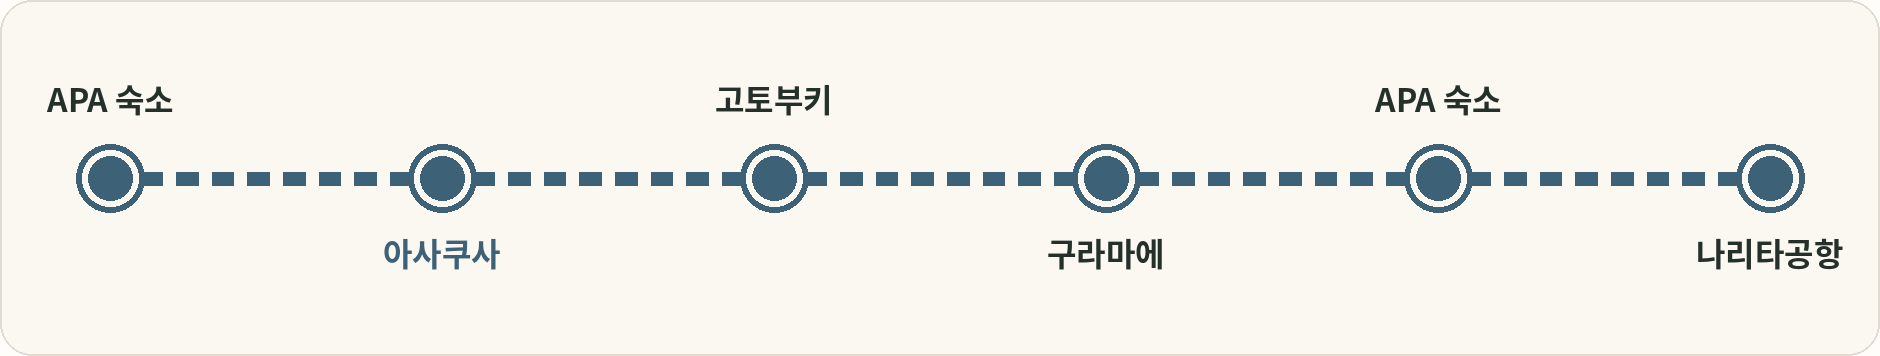
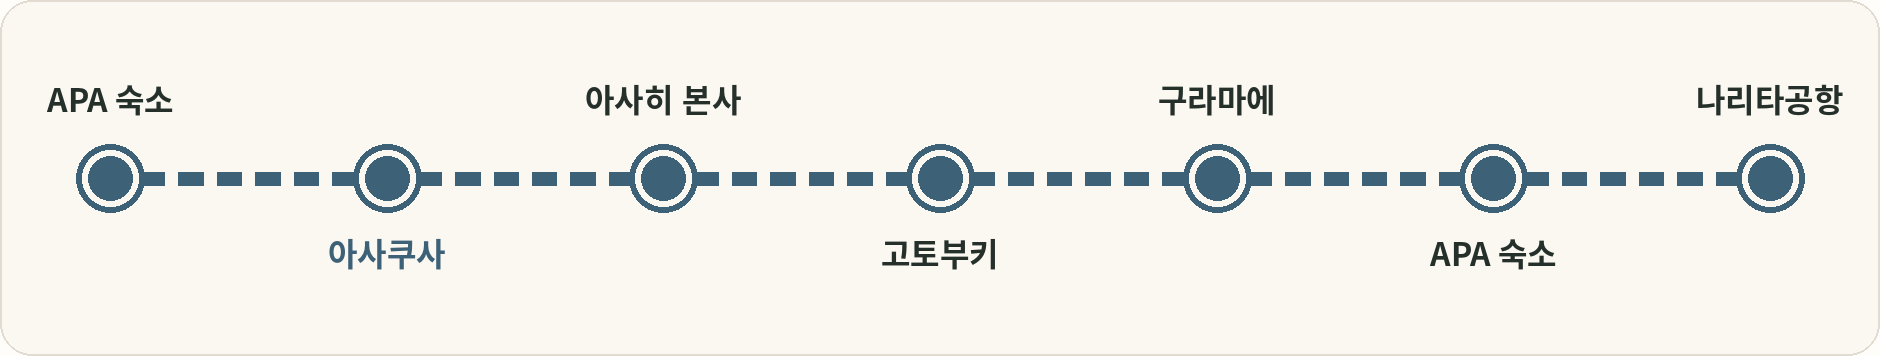
Schedule Asahi headquarters and clarify the Unagi reservation

diff --git a/index.html b/index.html
@@ -32,7 +32,7 @@
 <section id="shops" class="section"><div class="sectionhead"><div><span class="sectionindex">05 / Collected in Tokyo</span><h2>쇼핑 · 카페 · 맛집</h2></div><p>전당포·중고 명품 쇼핑은 11/28 긴자 일정에 포함했어요.<br>♡를 누르면 이 브라우저에 저장돼요.</p></div><div class="shoptabs" id="shopfilters"></div><div class="shopgrid" id="shopsgrid"></div><div class="callout">중고 상품의 재고는 매일 달라질 수 있어요. 같은 모델도 상태·크기·연식·수선·부속품을 함께 비교하세요. 매장 임시휴무는 출발 전 공식 채널 확인. ELEPHANT는 일요일 일반 영업, proto는 화요일 12시 개점. 사진 속 스키야키 링크는 우나후지와 같아 식당명이 확인되지 않았어요. 우나후지 도쿄 오페라시티점은 11/29(일) 17:00~19:00 예약 확정이에요.</div></section>
 <section id="taxrefund" class="section"><div class="sectionhead"><div><span class="sectionindex">Shopping guide / 2026.11.25 확인</span><h2>매장별 면세 & 출국 환급</h2></div><p>11/28~12/1 여행에는 새 리펀드 방식 적용.<br>면세 대응 확인은 환급액·수수료까지 확정됐다는 뜻은 아니에요.</p></div>
 <div class="callout"><strong>세금 포함 결제 → 매장 면세 등록 → 짐 맡기기 전 세관 확인 → 매장·환급업체 환급</strong><p>모든 가게가 참여하는 제도는 아니에요. 영수증만 공항으로 가져가면 되는 것도 아니므로 구매할 때 반드시 면세 처리를 요청하세요. 여행 예산은 환급 전 지출액 기준으로 잡고, 환급액은 확정 전 미리 차감하지 않아요.</p></div>
-<details open class="taxdetails"><summary>방문 매장별 면세 여부</summary><p>‘확인 필요’는 면세 불가라는 뜻이 아닙니다. 스투시 다른 지점·Spiral 다른 지점의 면세 여부를 이번 방문 지점에 그대로 적용하지 않았어요. 다치바나는 일정 제외 매장으로 참고만 남겨 두었어요.</p><div class="tablewrap"><table class="taxtable"><thead><tr><th>방문 매장</th><th>구분</th><th>조건·확인할 내용</th></tr></thead><tbody><tr><th scope="row">BRAND OFF 긴자 본점</th><td><b>면세 대응 확인</b></td><td>긴자 본점 공식 면세 표시. 환급 수단·수수료·지급 시점은 결제 전 확인. <a target="_blank" rel="noopener noreferrer" href="https://www.brandoff.co.jp/shop_list/shop.php?shop=010_ginza_head">확인 출처</a></td></tr><tr><th scope="row">KOMEHYO GINZA</th><td><b>면세 대응 확인</b></td><td>긴자점 공식 Tax Free 표시. 중고 상품도 구매 조건을 충족하면 신청 가능. <a target="_blank" rel="noopener noreferrer" href="https://komehyo.jp/kaitori/shop/ginza">확인 출처</a></td></tr><tr><th scope="row">다이코쿠야 긴자점</th><td><b>확인 필요</b></td><td>체인 공식 매장 면세 안내는 있으나 오래된 금액 기준이 남아 있어 긴자점의 새 제도 대응을 재확인. <a target="_blank" rel="noopener noreferrer" href="https://corporate.daikokuya.com/index_en.html">확인 출처</a></td></tr><tr><th scope="row">WATCHNIAN 긴자 5초메</th><td><b>면세 대응 확인</b></td><td>공식 FAQ상 매장 구매 면세 지원, 온라인 제외. 해당 상품과 환급 절차 확인. <a target="_blank" rel="noopener noreferrer" href="https://watchnian.com/shop/pages/faq.aspx">확인 출처</a></td></tr><tr><th scope="row">Spiral Market 아오야마</th><td><b>확인 필요</b></td><td>방문 지점의 관광객 면세·새 환급 방식 안내를 공식 공개 정보에서 확인하지 못했어요. 불가 확정이 아니며 결제 전에 물어보세요. <a target="_blank" rel="noopener noreferrer" href="https://www.spiral.co.jp/shoplist/spiral_market">확인 출처</a></td></tr><tr><th scope="row">ELEPHANT</th><td><b>확인 필요</b></td><td>방문 지점의 관광객 면세·새 환급 방식 안내를 공식 공개 정보에서 확인하지 못했어요. 불가 확정이 아니며 결제 전에 물어보세요. <a target="_blank" rel="noopener noreferrer" href="https://elephant-life.com/pages/shop-information">확인 출처</a></td></tr><tr><th scope="row">d47 design travel store</th><td><b>확인 필요</b></td><td>방문 지점의 관광객 면세·새 환급 방식 안내를 공식 공개 정보에서 확인하지 못했어요. 불가 확정이 아니며 결제 전에 물어보세요. <a target="_blank" rel="noopener noreferrer" href="https://www.d-department.com/ext/shop/d47.html">확인 출처</a></td></tr><tr><th scope="row">道具屋 nobori</th><td><b>확인 필요</b></td><td>방문 지점의 관광객 면세·새 환급 방식 안내를 공식 공개 정보에서 확인하지 못했어요. 불가 확정이 아니며 결제 전에 물어보세요. <a target="_blank" rel="noopener noreferrer" href="https://fromafar.stores.jp/about">확인 출처</a></td></tr><tr><th scope="row">proto 器とタカラモノ</th><td><b>확인 필요</b></td><td>방문 지점의 관광객 면세·새 환급 방식 안내를 공식 공개 정보에서 확인하지 못했어요. 불가 확정이 아니며 결제 전에 물어보세요. <a target="_blank" rel="noopener noreferrer" href="https://proto-art.stores.jp/about">확인 출처</a></td></tr><tr><th scope="row">GLITCH COFFEE GINZA</th><td><b>음료 대상 아님</b></td><td>매장에서 마시는 커피는 대상 제외. 반출할 원두·굿즈 판매의 면세 대응은 별도 확인. <a target="_blank" rel="noopener noreferrer" href="https://www.customs.go.jp/kaigairyoko/taxrefund.htm">확인 출처</a></td></tr><tr><th scope="row">BEAMS GINZA</th><td><b>면세 대응 확인</b></td><td>긴자점 공식 면세 표시. 환급 수단·수수료는 매장 안내 확인. <a target="_blank" rel="noopener noreferrer" href="https://www.beams.co.jp/shop/gnz/">확인 출처</a></td></tr><tr><th scope="row">미야코시야 커피 긴자점</th><td><b>음료 대상 아님</b></td><td>매장에서 마시는 커피는 대상 제외. 반출할 원두·상품은 매장에 따로 확인. <a target="_blank" rel="noopener noreferrer" href="https://www.customs.go.jp/kaigairyoko/taxrefund.htm">확인 출처</a></td></tr><tr><th scope="row">파블로프 · GINZA SIX</th><td><b>조건부·확인 필요</b></td><td>SIX 1층에 면세 카운터가 있지만 파블로프 참여·합산·수수료는 확인 필요. 일본에서 먹을 과자는 대상 제외. <a target="_blank" rel="noopener noreferrer" href="https://ginza6.tokyo/services/">확인 출처</a></td></tr><tr><th scope="row">긴자 다치바나</th><td><b>확인 필요</b></td><td>방문 지점의 관광객 면세·새 환급 방식 안내를 공식 공개 정보에서 확인하지 못했어요. 불가 확정이 아니며 결제 전에 물어보세요. <a target="_blank" rel="noopener noreferrer" href="https://ginza.kokosil.net/ja/place/00001c0000000000000200000016b86a">확인 출처</a></td></tr><tr><th scope="row">야마야 긴자</th><td><b>확인 필요</b></td><td>과거 공식 면세 대상 지점에 포함. 2026년 11월 이후 해당 지점 환급 방식·운영 여부 재확인. <a target="_blank" rel="noopener noreferrer" href="https://www.yamaya.jp/pages/cp/press/data/file194.pdf">확인 출처</a></td></tr><tr><th scope="row">리커 마운틴 긴자 777</th><td><b>면세 대응 확인</b></td><td>해당 지점 공식 면세점 표시. 위스키는 일본에서 마시지 않고 직접 반출. <a target="_blank" rel="noopener noreferrer" href="https://www.likaman.co.jp/shop/tokyo/chuo-ku/8466.html">확인 출처</a></td></tr><tr><th scope="row">우나후지 도쿄 오페라시티점</th><td><b>대상 아님</b></td><td>예약한 식사·음료는 일본에서 소비하므로 관광객 물품 면세 대상이 아니에요. <a target="_blank" rel="noopener noreferrer" href="https://www.customs.go.jp/kaigairyoko/taxrefund.htm">확인 출처</a></td></tr><tr><th scope="row">아사히 스카이룸</th><td><b>대상 아님</b></td><td>현장에서 마시는 맥주·식사는 물품 면세 대상이 아니에요. <a target="_blank" rel="noopener noreferrer" href="https://www.customs.go.jp/kaigairyoko/taxrefund.htm">확인 출처</a></td></tr><tr><th scope="row">Stüssy 하라주쿠</th><td><b>확인 필요</b></td><td>방문 지점의 관광객 면세·새 환급 방식 안내를 공식 공개 정보에서 확인하지 못했어요. 불가 확정이 아니며 결제 전에 물어보세요. <a target="_blank" rel="noopener noreferrer" href="https://jp.stussy.com/blogs/chapters/stussy-harajuku">확인 출처</a></td></tr><tr><th scope="row">몽벨 도쿄 교바시점</th><td><b>면세 대응 확인</b></td><td>몽벨 공식 매장 안내에 면세 가능으로 표시돼요. 결제 전에 면세 등록과 환급 방법을 확인하세요. <a target="_blank" rel="noopener noreferrer" href="https://store.montbell.jp/search/shopinfo/?shop_no=678502">확인 출처</a></td></tr><tr><th scope="row">디즈니랜드 파크 내 굿즈</th><td><b>면세 불가</b></td><td>공식 FAQ에서 파크 내 판매 상품의 면세 불가 안내. <a target="_blank" rel="noopener noreferrer" href="https://faq-en.tokyodisneyresort.jp/answer/680ba054d7820362f46c7d8e/">공식 FAQ</a></td></tr></tbody></table></div></details>
+<details open class="taxdetails"><summary>방문 매장별 면세 여부</summary><p>‘확인 필요’는 면세 불가라는 뜻이 아닙니다. 스투시 다른 지점·Spiral 다른 지점의 면세 여부를 이번 방문 지점에 그대로 적용하지 않았어요. 다치바나는 일정 제외 매장으로 참고만 남겨 두었어요.</p><div class="tablewrap"><table class="taxtable"><thead><tr><th>방문 매장</th><th>구분</th><th>조건·확인할 내용</th></tr></thead><tbody><tr><th scope="row">BRAND OFF 긴자 본점</th><td><b>면세 대응 확인</b></td><td>긴자 본점 공식 면세 표시. 환급 수단·수수료·지급 시점은 결제 전 확인. <a target="_blank" rel="noopener noreferrer" href="https://www.brandoff.co.jp/shop_list/shop.php?shop=010_ginza_head">확인 출처</a></td></tr><tr><th scope="row">KOMEHYO GINZA</th><td><b>면세 대응 확인</b></td><td>긴자점 공식 Tax Free 표시. 중고 상품도 구매 조건을 충족하면 신청 가능. <a target="_blank" rel="noopener noreferrer" href="https://komehyo.jp/kaitori/shop/ginza">확인 출처</a></td></tr><tr><th scope="row">다이코쿠야 긴자점</th><td><b>확인 필요</b></td><td>체인 공식 매장 면세 안내는 있으나 오래된 금액 기준이 남아 있어 긴자점의 새 제도 대응을 재확인. <a target="_blank" rel="noopener noreferrer" href="https://corporate.daikokuya.com/index_en.html">확인 출처</a></td></tr><tr><th scope="row">WATCHNIAN 긴자 5초메</th><td><b>면세 대응 확인</b></td><td>공식 FAQ상 매장 구매 면세 지원, 온라인 제외. 해당 상품과 환급 절차 확인. <a target="_blank" rel="noopener noreferrer" href="https://watchnian.com/shop/pages/faq.aspx">확인 출처</a></td></tr><tr><th scope="row">Spiral Market 아오야마</th><td><b>확인 필요</b></td><td>방문 지점의 관광객 면세·새 환급 방식 안내를 공식 공개 정보에서 확인하지 못했어요. 불가 확정이 아니며 결제 전에 물어보세요. <a target="_blank" rel="noopener noreferrer" href="https://www.spiral.co.jp/shoplist/spiral_market">확인 출처</a></td></tr><tr><th scope="row">ELEPHANT</th><td><b>확인 필요</b></td><td>방문 지점의 관광객 면세·새 환급 방식 안내를 공식 공개 정보에서 확인하지 못했어요. 불가 확정이 아니며 결제 전에 물어보세요. <a target="_blank" rel="noopener noreferrer" href="https://elephant-life.com/pages/shop-information">확인 출처</a></td></tr><tr><th scope="row">d47 design travel store</th><td><b>확인 필요</b></td><td>방문 지점의 관광객 면세·새 환급 방식 안내를 공식 공개 정보에서 확인하지 못했어요. 불가 확정이 아니며 결제 전에 물어보세요. <a target="_blank" rel="noopener noreferrer" href="https://www.d-department.com/ext/shop/d47.html">확인 출처</a></td></tr><tr><th scope="row">道具屋 nobori</th><td><b>확인 필요</b></td><td>방문 지점의 관광객 면세·새 환급 방식 안내를 공식 공개 정보에서 확인하지 못했어요. 불가 확정이 아니며 결제 전에 물어보세요. <a target="_blank" rel="noopener noreferrer" href="https://fromafar.stores.jp/about">확인 출처</a></td></tr><tr><th scope="row">proto 器とタカラモノ</th><td><b>확인 필요</b></td><td>방문 지점의 관광객 면세·새 환급 방식 안내를 공식 공개 정보에서 확인하지 못했어요. 불가 확정이 아니며 결제 전에 물어보세요. <a target="_blank" rel="noopener noreferrer" href="https://proto-art.stores.jp/about">확인 출처</a></td></tr><tr><th scope="row">GLITCH COFFEE GINZA</th><td><b>음료 대상 아님</b></td><td>매장에서 마시는 커피는 대상 제외. 반출할 원두·굿즈 판매의 면세 대응은 별도 확인. <a target="_blank" rel="noopener noreferrer" href="https://www.customs.go.jp/kaigairyoko/taxrefund.htm">확인 출처</a></td></tr><tr><th scope="row">BEAMS GINZA</th><td><b>면세 대응 확인</b></td><td>긴자점 공식 면세 표시. 환급 수단·수수료는 매장 안내 확인. <a target="_blank" rel="noopener noreferrer" href="https://www.beams.co.jp/shop/gnz/">확인 출처</a></td></tr><tr><th scope="row">미야코시야 커피 긴자점</th><td><b>음료 대상 아님</b></td><td>매장에서 마시는 커피는 대상 제외. 반출할 원두·상품은 매장에 따로 확인. <a target="_blank" rel="noopener noreferrer" href="https://www.customs.go.jp/kaigairyoko/taxrefund.htm">확인 출처</a></td></tr><tr><th scope="row">파블로프 · GINZA SIX</th><td><b>조건부·확인 필요</b></td><td>SIX 1층에 면세 카운터가 있지만 파블로프 참여·합산·수수료는 확인 필요. 일본에서 먹을 과자는 대상 제외. <a target="_blank" rel="noopener noreferrer" href="https://ginza6.tokyo/services/">확인 출처</a></td></tr><tr><th scope="row">긴자 다치바나</th><td><b>확인 필요</b></td><td>방문 지점의 관광객 면세·새 환급 방식 안내를 공식 공개 정보에서 확인하지 못했어요. 불가 확정이 아니며 결제 전에 물어보세요. <a target="_blank" rel="noopener noreferrer" href="https://ginza.kokosil.net/ja/place/00001c0000000000000200000016b86a">확인 출처</a></td></tr><tr><th scope="row">야마야 긴자</th><td><b>확인 필요</b></td><td>과거 공식 면세 대상 지점에 포함. 2026년 11월 이후 해당 지점 환급 방식·운영 여부 재확인. <a target="_blank" rel="noopener noreferrer" href="https://www.yamaya.jp/pages/cp/press/data/file194.pdf">확인 출처</a></td></tr><tr><th scope="row">리커 마운틴 긴자 777</th><td><b>면세 대응 확인</b></td><td>해당 지점 공식 면세점 표시. 위스키는 일본에서 마시지 않고 직접 반출. <a target="_blank" rel="noopener noreferrer" href="https://www.likaman.co.jp/shop/tokyo/chuo-ku/8466.html">확인 출처</a></td></tr><tr><th scope="row">우나후지 도쿄 오페라시티점</th><td><b>대상 아님</b></td><td>예약한 식사·음료는 일본에서 소비하므로 관광객 물품 면세 대상이 아니에요. <a target="_blank" rel="noopener noreferrer" href="https://www.customs.go.jp/kaigairyoko/taxrefund.htm">확인 출처</a></td></tr><tr><th scope="row">아사히맥주 본사 · 아사히 스카이룸</th><td><b>대상 아님</b></td><td>현장에서 마시는 맥주·식사는 물품 면세 대상이 아니에요. <a target="_blank" rel="noopener noreferrer" href="https://www.customs.go.jp/kaigairyoko/taxrefund.htm">확인 출처</a></td></tr><tr><th scope="row">Stüssy 하라주쿠</th><td><b>확인 필요</b></td><td>방문 지점의 관광객 면세·새 환급 방식 안내를 공식 공개 정보에서 확인하지 못했어요. 불가 확정이 아니며 결제 전에 물어보세요. <a target="_blank" rel="noopener noreferrer" href="https://jp.stussy.com/blogs/chapters/stussy-harajuku">확인 출처</a></td></tr><tr><th scope="row">몽벨 도쿄 교바시점</th><td><b>면세 대응 확인</b></td><td>몽벨 공식 매장 안내에 면세 가능으로 표시돼요. 결제 전에 면세 등록과 환급 방법을 확인하세요. <a target="_blank" rel="noopener noreferrer" href="https://store.montbell.jp/search/shopinfo/?shop_no=678502">확인 출처</a></td></tr><tr><th scope="row">디즈니랜드 파크 내 굿즈</th><td><b>면세 불가</b></td><td>공식 FAQ에서 파크 내 판매 상품의 면세 불가 안내. <a target="_blank" rel="noopener noreferrer" href="https://faq-en.tokyodisneyresort.jp/answer/680ba054d7820362f46c7d8e/">공식 FAQ</a></td></tr></tbody></table></div></details>
 <div class="taxsteps">
 <article class="shopcard"><h3>1. 매장에서 결제하기 전</h3><p>일본 비거주 단기 관광객 등 대상 자격 확인을 위해 여권 원본을 지참해요. 같은 매장·같은 날 세전 5,000엔 이상이 기본 조건. 서로 다른 가게의 영수증은 임의 합산하지 말고, 쇼핑몰 합산은 카운터에 확인하세요.</p><p>직원에게 면세 환급을 요청하고 여권 정보를 등록해요. 환급 수단·수수료·예상 소요 기간·추가 신청 링크를 확인한 뒤 세금 포함 가격으로 결제하세요. 영수증과 신청 안내는 보관.</p><p><a href="https://www.gotokyo.org/en/plan/tax-free-shopping/index.html" target="_blank" rel="noopener noreferrer">대상 자격·구매 절차</a></p></article>
 <article class="shopcard"><h3>2. 쇼핑 중 보관</h3><p>소모품 특수 밀봉 의무가 없어져도 일본에서 먹거나 마신 물건은 환급받을 수 없어요. 여행 중 먹을 디저트와 한국으로 가져갈 선물은 계산을 나누는 편이 좋아요.</p><p>한 면세 거래의 물품 중 하나라도 반출 확인이 안 되면 그 거래 전체가 환급되지 않을 수 있어요. 일부를 소비했다면 단말로 그대로 신청하지 말고 세관 직원에게 알리세요. 환급용 위스키는 마시지 말고 보관해요.</p><p><a href="https://www.mlit.go.jp/kankocho/tax-free/page01_000001_00028.html" target="_blank" rel="noopener noreferrer">거래별 반출 확인 주의사항</a></p></article>
@@ -45,5 +45,5 @@
 <section id="sources" class="section"><div class="sectionhead"><div><span class="sectionindex">Source notes / Updated 2026.11.06</span><h2>가격의 기준과 공식 안내</h2></div><p>운임은 현재 공지·경로 검색의 참고금액.<br>출발일의 시간표·예약 화면에서 최종 확인하세요.</p></div><div class="sources" id="sourceslist"></div></section>
 </main><footer class="wrap"><span class="wordmark">our days<em>.</em></span><span>첫 번째 기념일을 위한 도쿄 노트 · 2026<br>계획용 일정 / 예약·결제 기능 없음</span><a href="#">맨 위로 ↑</a></footer>
 <div class="toast" id="toast" role="status" hidden></div>
-<script src="data.js?v=montbell-1"></script><script src="app.js?v=montbell-1"></script>
+<script src="data.js?v=asahi-1"></script><script src="app.js?v=asahi-1"></script>
 </body></html>

diff --git a/app.js b/app.js
@@ -46,10 +46,10 @@
   "나리타 제3터미널 → 공항철도로 히가시니혼바시 APA → 아사쿠사선으로 히가시긴자 → 도보로 긴자 쇼핑 → 교바시 몽벨 → 마루노우치 → 도쿄역에서 소부쾌속선으로 바쿠로초·APA.",
   "APA → 아사쿠사선·긴자선으로 가이엔마에 → 도보로 오모테산도와 하라주쿠 스투시 → 시부야역 서쪽 → 渋64 버스로 도쿄 오페라시티, 17시 우나후지 → 하쓰다이에서 게이오 신선·신주쿠선으로 바쿠로요코야마·APA. 요요기공원은 여유가 있을 때 들러요.",
   "바쿠로초 → 소부쾌속선으로 도쿄역 → 게이요선으로 마이하마 → 도보로 디즈니랜드. 17시 전후 퇴장 후 마이하마·도쿄역을 거쳐 APA로. 긴자가 선택이면 도쿄역에서 걸어가고 히가시긴자에서 아사쿠사선으로 복귀.",
-  "APA → 아사쿠사선으로 아사쿠사 → 도보로 고토부키의 nobori와 구라마에의 proto → 아사쿠사선으로 APA에 돌아와 짐 찾기 → 공항철도로 나리타 제3터미널. 16:30 도착 목표."
+  "APA → 아사쿠사선으로 아사쿠사 → 도보로 아사히맥주 본사 스카이룸 → 고토부키의 nobori → 구라마에의 proto → 아사쿠사선으로 APA에 돌아와 짐 찾기 → 공항철도로 나리타 제3터미널. 16:30 도착 목표."
 ];
  function routeMap(d) {
-  const file = `route-maps/day-${String(d.id + 1).padStart(2, '0')}.png?v=${d.id === 0 ? '10' : '9'}`;
+  const file = `route-maps/day-${String(d.id + 1).padStart(2, '0')}.png?v=${d.id === 0 ? '10' : d.id === 3 ? '11' : '9'}`;
   return `<figure class="route-map">
    <img src="${file}" width="1880" height="356" alt="${esc(routeMapDescriptions[d.id])}" loading="lazy" decoding="async">
    <figcaption><span>이동 순서도 · 축척 없음</span><a href="${file}" target="_blank" rel="noopener noreferrer" aria-label="${d.date} 이동 지도 크게 보기">지도 크게 보기</a></figcaption>
@@ -73,8 +73,8 @@
  };
  function routeLink(title){
  const points={'도쿄 오페라시티':'Tokyo Opera City','하쓰다이':'Hatsudai Station','나리타공항 제2·3터미널역':'Narita Airport Terminal 2 3 Station','공항 제2·3터미널역':'Narita Airport Terminal 2 3 Station','신바시':'Shimbashi Station Tokyo','신바시역':'Shimbashi Station Tokyo','호텔':T.hotel,'히가시니혼바시':'Higashi-nihombashi Station','바쿠로초':'Bakurocho Station','바쿠로요코야마':'Bakuro-yokoyama Station','히가시긴자':'Higashi-ginza Station','마루노우치':'Marunouchi Naka-dori Tokyo','도쿄역':'Tokyo Station Japan','도쿄':'Tokyo Station Japan','가이엔마에':'Gaiemmae Station Tokyo','가이엔':'Meiji Jingu Gaien Ginkgo Avenue','시부야':'Shibuya Station Tokyo','롯폰기':'Roppongi Station Tokyo','시오도메':'Shiodome Station Tokyo','마이하마':'Maihama Station Japan','마이하마역':'Maihama Station Japan','디즈니랜드':'Tokyo Disneyland','아사쿠사':'Sensoji Temple Tokyo','구라마에':'Kuramae Asakusa Line Station Tokyo','nobori':'Douguya nobori 3-7-1 Kotobuki','proto':'proto 4-20-12 Kuramae'};
- const parts=title.split('→').map(v=>v.trim());const walk=['도쿄역 → 긴자 → 히가시긴자','도쿄역 → 황궁 외원 → 히가시긴자','히가시니혼바시 → 호텔','히가시긴자 → 긴자 매장 → 교바시 몽벨 → 마루노우치','가이엔 → 오모테산도 → 시부야','마이하마역 → 디즈니랜드','아사쿠사 → nobori → proto'].includes(title);
- const waypoints=title.includes('교바시 몽벨')?'BRAND OFF Ginza Main Store|Mont-bell Tokyo Kyobashi Tokyo Square Garden':title.includes('황궁 외원')?'Nijubashi Bridge Tokyo|GINZA SIX':'';
+ const parts=title.split('→').map(v=>v.trim());const walk=['도쿄역 → 긴자 → 히가시긴자','도쿄역 → 황궁 외원 → 히가시긴자','히가시니혼바시 → 호텔','히가시긴자 → 긴자 매장 → 교바시 몽벨 → 마루노우치','가이엔 → 오모테산도 → 시부야','마이하마역 → 디즈니랜드','아사쿠사 → 아사히 본사 → nobori → proto'].includes(title);
+ const waypoints=title.includes('아사히 본사')?'Asahi Sky Room Asakusa|Douguya nobori 3-7-1 Kotobuki':title.includes('교바시 몽벨')?'BRAND OFF Ginza Main Store|Mont-bell Tokyo Kyobashi Tokyo Square Garden':title.includes('황궁 외원')?'Nijubashi Bridge Tokyo|GINZA SIX':'';
  return 'https://www.google.com/maps/dir/?api=1&origin='+encodeURIComponent(points[parts[0]]||parts[0]+' Tokyo Japan')+'&destination='+encodeURIComponent(points[parts[parts.length-1]]||parts[parts.length-1]+' Tokyo Japan')+(waypoints?'&waypoints='+encodeURIComponent(waypoints):'')+'&travelmode='+(walk?'walking':'transit');
  }
  function renderRoutes(){

diff --git a/data.js b/data.js
@@ -161,7 +161,7 @@ window.TRIP = {
     ],
     [
      "17:00–19:00",
-     "예약 확정 · 숯불구이 우나후지",
+     "예약 확정 · 우나기(장어) 우나후지",
      "11월 29일(일) 17:00~19:00 예약 내역 반영. 도쿄 오페라시티점 53층에서 기념일 저녁. 창가 좌석 여부는 예약 이미지에 표시되지 않았어요. 식사·음료 예산은 두 사람 20,000엔이며 실제 결제액은 별도예요.",
      "Sumiyaki Unafuji Tokyo Opera City"
     ],
@@ -336,9 +336,15 @@ window.TRIP = {
      "Sumida Park Asakusa"
     ],
     [
-     "11:00–11:45",
+     "10:30–11:00",
+     "아사히맥주 본사 · 아사히 스카이룸",
+     "센소지에서 스미다강 건너 아사히 그룹 본사 22층으로. 아사히 흑생(黒生) 한 잔과 전망. 공식 영업시간 10:00–22:00. 줄이 길면 11:00쯤 이동해요.",
+     "Asahi Sky Room Asakusa"
+    ],
+    [
+     "11:20–11:45",
      "道具屋 nobori",
-     "생활 도구·그릇·유리잔. 아사쿠사에서 도보로 내려오기. 맥주를 더 원하면 이 시간에 아사히 본사 22층 스카이룸 한 곳으로 교체. 11:40 전후 출발해 proto로 이동해요.",
+     "아사히 본사에서 아즈마바시를 건너 고토부키로 도보 이동. 생활 도구·그릇·유리잔을 보고 11:45쯤 proto로 출발해요.",
      "Douguya nobori 3-7-1 Kotobuki"
     ],
     [
@@ -382,12 +388,12 @@ window.TRIP = {
      "아사쿠사 정차편 선택."
     ],
     [
-     "아사쿠사 → nobori → proto",
+     "아사쿠사 → 아사히 본사 → nobori → proto",
      "도보",
      "각 구간 약 10~20분",
      "0",
      0,
-     "nobori 11시 / proto 평일 12시 개점."
+     "스미다강을 건너 아사히 본사에 들른 뒤 고토부키·구라마에로 이동. nobori 11시 / proto 평일 12시 개점."
     ],
     [
      "구라마에 → 히가시니혼바시",
@@ -648,11 +654,11 @@ window.TRIP = {
    }
   ],
   [
-   "아사히 스카이룸",
+   "아사히맥주 본사 · 아사히 스카이룸",
    "맛집",
-   "사진의 아사히 본사 추천을 반영한 22층 맥주 후보. 귀국일에는 오전 그릇 가게 한 곳과 교체하고, 대기가 길면 생략해요.",
-   "스미다구 아즈마바시 1-23-1 · 22층",
-   "12/1 선택",
+   "12/1 오전에 들르는 아사히 그룹 본사 22층 전망 라운지. 아사히 생맥주 흑생(黒生) 판매는 공개 메뉴에서 확인.",
+   "스미다구 아즈마바시 1-23-1 · 22층 · 10:00–22:00",
+   "12/1 · 10:30",
    "https://www.colowide.co.jp/gs/store_detail.php?id=83851",
    "Asahi Sky Room Asakusa",
    {
@@ -829,6 +835,16 @@ window.TRIP = {
    "몽벨 도쿄 교바시점 공식 안내",
    "https://store.montbell.jp/search/shopinfo/?shop_no=678502",
    "교바시역 3번 출구 연결 · 영업시간과 면세 안내"
+  ],
+  [
+   "아사히맥주 본사 스카이룸",
+   "https://www.colowide.co.jp/gs/store_detail.php?id=83851",
+   "아사히 그룹 본사 22층 · 영업시간"
+  ],
+  [
+   "아사히 스카이룸 음료 메뉴",
+   "https://tabelog.com/tokyo/A1311/A131102/13022744/dtlmenu/drink/",
+   "아사히 생맥주 흑생(黒生)"
   ]
  ]
 };
